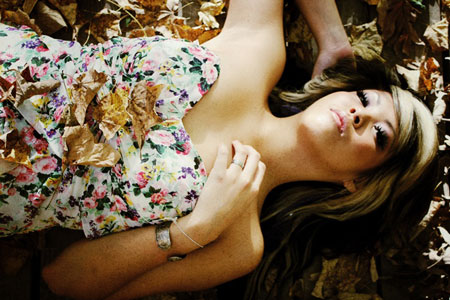
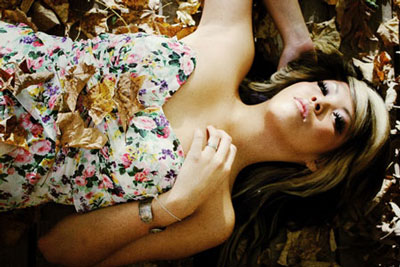
modified galley and portrait css and html

diff --git a/portraits.html b/portraits.html
@@ -31,19 +31,19 @@
 	</div>
 
 	<div class="container2">
-		<div class="08 gallery"><a href="portraits/portraits_img/ocean.jpg"><img src="portraits/TNocean.jpg"></a></div>
-		<div class="01 gallery"><a href="portraits/portraits_img/goldenhour.jpg"><img src="portraits/TNgoldenhour.jpg"></a></div>
-		<div class="02 gallery"><a href="portraits/portraits_img/bathingsuit.jpg"><img src="portraits/TNbathingsuit.jpg"></a></div>
+		<div class="01 gallery"><a href="portraits/portraits_img/ocean.jpg"><img src="portraits/TNocean.jpg"></a></div>
+		<div class="02 gallery"><a href="portraits/portraits_img/goldenhour.jpg"><img src="portraits/TNgoldenhour.jpg"></a></div>
+		<div class="03 gallery"><a href="portraits/portraits_img/bathingsuit.jpg"><img src="portraits/TNbathingsuit.jpg"></a></div>
 		<div class="04 gallery"><a href="portraits/portraits_img/facepaint.jpg"><img src="portraits/TNfacepaint.jpg"></a></div>
-		<div class="06 gallery"><a href="portraits/portraits_img/jessshoulder.jpg"><img src="portraits/TNjessshoulder.jpg"></a></div>
-		<div class="08 gallery"><a href="portraits/portraits_img/blue.jpg"><img src="portraits/TNblue.jpg"></a></div>
-		<div class="05 gallery"><a href="portraits/portraits_img/grey.jpg"><img src="portraits/TNgrey.jpg"></a></div>
-		<div class="07 gallery"><a href="portraits/portraits_img/strapoff.jpg"><img src="portraits/TNstrapoff.jpg"></a></div>
-		<div class="06 gallery"><a href="portraits/portraits_img/fall.jpg"><img src="portraits/TNfall.jpg"></a></div>
-		<div class="08 gallery"><a href="portraits/portraits_img/xx.jpg"><img src="portraits/TNxx.jpg"></a></div>
-		<div class="09 gallery"><a href="portraits/portraits_img/queen.jpg"><img src="portraits/TNqueen.jpg"></a></div>
-		<div class="08 gallery"><a href="portraits/portraits_img/curls.jpg"><img src="portraits/TNcurls.jpg"></a></div>
-		<div class="03 gallery"><a href="portraits/portraits_img/cityscape.jpg"><img src="portraits/TNcityscape.jpg"></a></div>
+		<div class="05 gallery"><a href="portraits/portraits_img/jessshoulder.jpg"><img src="portraits/TNjessshoulder.jpg"></a></div>
+		<div class="06 gallery"><a href="portraits/portraits_img/blue.jpg"><img src="portraits/TNblue.jpg"></a></div>
+		<div class="07 gallery"><a href="portraits/portraits_img/grey.jpg"><img src="portraits/TNgrey.jpg"></a></div>
+		<div class="08 gallery"><a href="portraits/portraits_img/strapoff.jpg"><img src="portraits/TNstrapoff.jpg"></a></div>
+		<div class="09 gallery"><a href="portraits/portraits_img/fall.jpg"><img src="portraits/TNfall.jpg"></a></div>
+		<div class="010 gallery"><a href="portraits/portraits_img/xx.jpg"><img src="portraits/TNxx.jpg"></a></div>
+		<div class="011 gallery"><a href="portraits/portraits_img/queen.jpg"><img src="portraits/TNqueen.jpg"></a></div>
+		<div class="012 gallery"><a href="portraits/portraits_img/curls.jpg"><img src="portraits/TNcurls.jpg"></a></div>
+		<div class="013 gallery"><a href="portraits/portraits_img/cityscape.jpg"><img src="portraits/TNcityscape.jpg"></a></div>
 		
 
 

diff --git a/gallery.css b/gallery.css
@@ -138,7 +138,7 @@ footer{
 }
 
 .gallery img{
-	height: 250px;
+	height: 200px;
 	width:auto;
 	margin: 10px 10px 0 0;
 }
